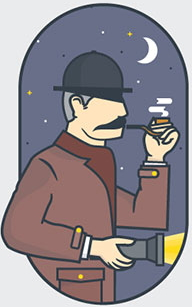
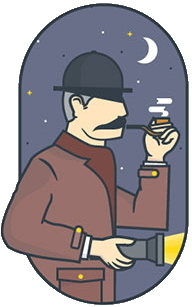
Picture formating

diff --git a/index.html b/index.html
@@ -8,6 +8,10 @@
     <title>Serlokas 🕵♂</title>
 </head>
 
+<!--
+    background-color: #eaebed;
+-->
+
 <body style="background-color: #eaebed;
              font-family: 'Gill Sans', 'Gill Sans MT', Calibri, 'Trebuchet MS', sans-serif;
              color: #343E48;">
@@ -15,10 +19,9 @@
                 margin-left: 25%;
                 margin-top: 7%; 
                 display: inline-block;">
-        <img src="./serlokas.jpg" 
+        <img src="./serlokas.png" 
                 alt="serlokas su pypke" 
-                style="background-color: pink; 
-                width: 40%;
+                style="width: 40%;
                 float: left;">
         <div style="width:50%; 
                     float: left; 
@@ -41,7 +44,6 @@
                                 display: inline-block;
                                 font-size: 20px;
                                 padding: 20px;
-                                
                                 text-transform: uppercase;
                                 text-decoration: none;">Back home</a>
         </div>
@@ -117,5 +119,10 @@ width: 100%;
     sans-serif -> sujungtinis zodis (minusas)
     'Gill Sans' -> zodziai sutarpais (privalo buti apgaubti viengubomis kabutemis)  
 
+    Paveikliuku apkarmimas:
+    1) magic wand
+    2) pasirenkam foną
+    3) ctrl + i
+    4) ctrl + shift + x
 
 -->
